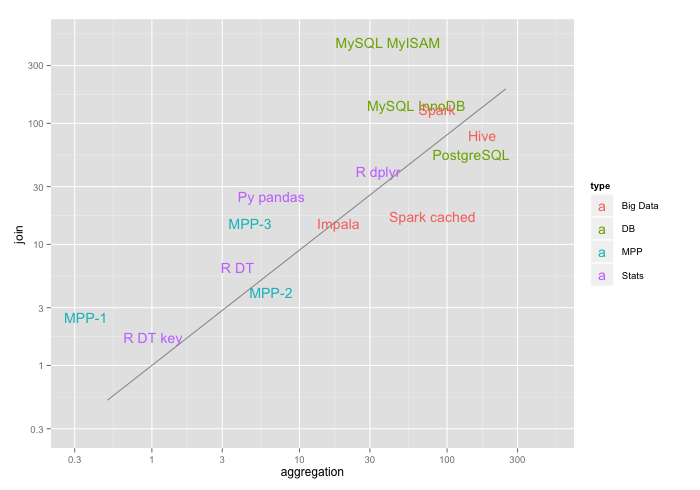
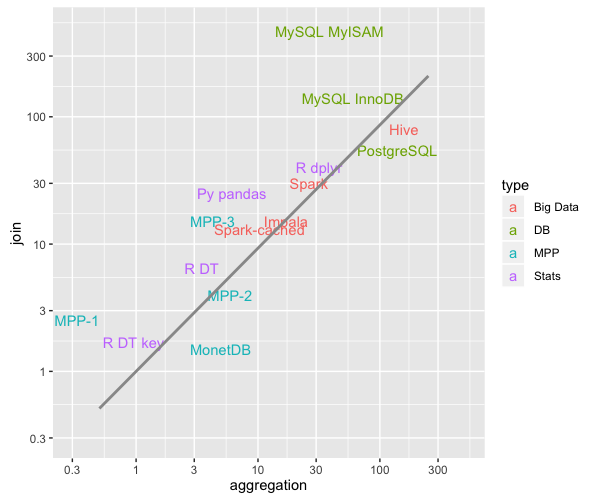
doc

diff --git a/README.md b/README.md
@@ -142,21 +142,9 @@ a comprehensive SQL benchmark is out of the scope here (but see e.g. TPC-DS).
 |  Big Data  | [Spark](3c-spark.txt)               |   20          |       120      |    130   |
 |  Big Data  | [Spark cached](3c-spark.txt)        |   50          |       90       |    17    |
 
-![plots](plot.png)
 
 *Update: [Timings](https://gist.github.com/szilard/7d810877fcc6b019a478#gistcomment-1693662) 
-by @hannesmuehleisen on MonetDB on same m3.2xlarge: aggregation 7.0, join 1.5. The above plot
-would look like 
-[this](https://cloud.githubusercontent.com/assets/227792/12945315/f9d07788-cfec-11e5-9339-fc13d08105e2.png).*
-
-
-| System        | Aggr 1-node | Aggr 5-node | Join 1-node | Join 5-node |
-| ------------- | ----------- | ----------- | ----------- | ----------- |
-| Hive          |    250      |   160       |    80       |     50      |
-| Impala        |    25       |   16        |    15       |     10      |
-| Spark         |    120      |   50        |    130      |     30      |
-| Spark cached  |    90       |   40        |    17       |     10      |
-
+by @hannesmuehleisen on MonetDB on same m3.2xlarge: aggregation 7.0, join 1.5. 
 
 *Update: With newer [versions](versions.txt) of Hive and Spark:*
 
@@ -166,7 +154,16 @@ would look like
 | Spark          |   40    |     30   |
 | Spark cached   |   12    |     15   |
 
-*Updated chart:* [here](plot-updated.png)
+![plots](plot.png)
+
+Multinode results (with older versions of Spark/Hive):
+
+| System        | Aggr 1-node | Aggr 5-node | Join 1-node | Join 5-node |
+| ------------- | ----------- | ----------- | ----------- | ----------- |
+| Hive          |    250      |   160       |    80       |     50      |
+| Impala        |    25       |   16        |    15       |     10      |
+| Spark         |    120      |   50        |    130      |     30      |
+| Spark cached  |    90       |   40        |    17       |     10      |
 
 
 #### Discussions
